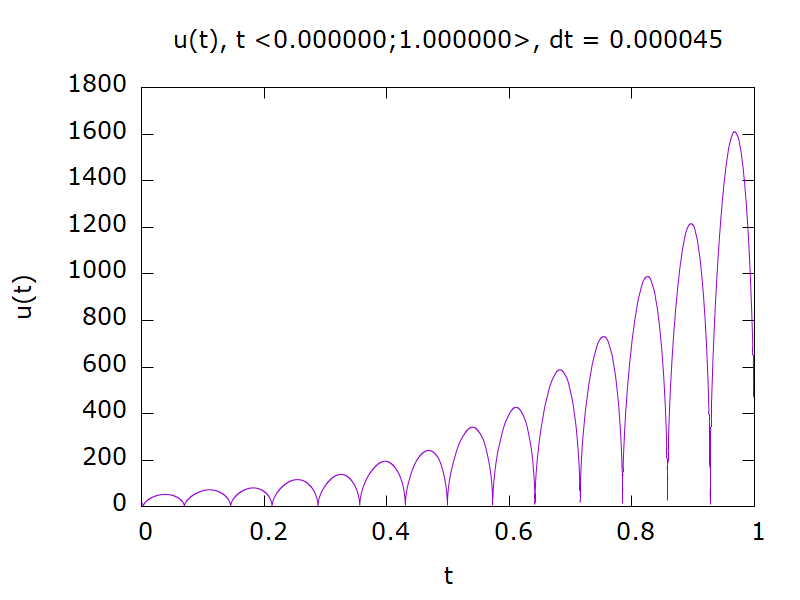
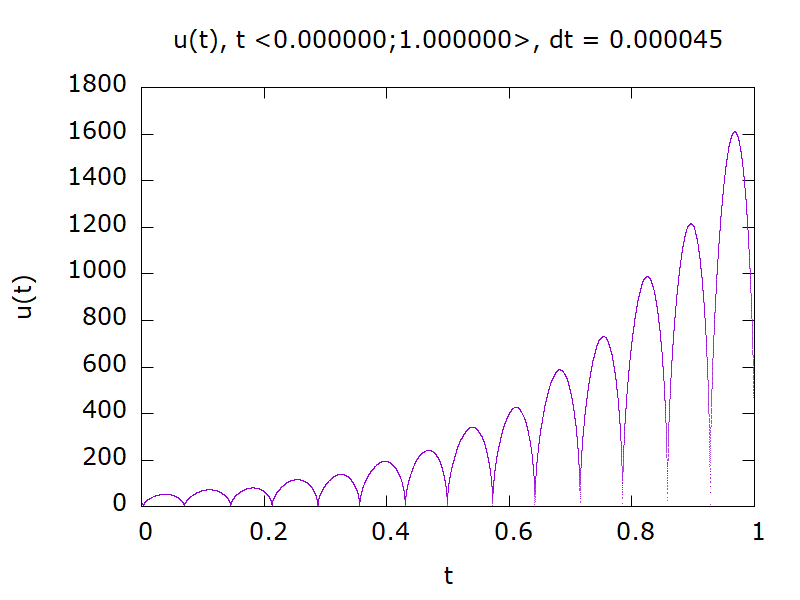
Dodanie funkcji rysujacej wykres 'with dots', poprawki do wykresow

diff --git a/TD_LAB_01/main.cpp b/TD_LAB_01/main.cpp
@@ -81,7 +81,7 @@ void zad1() {
 	string title = "x(t), t <" + to_string(t0) + ";" + to_string(tN) + ">, dt = " + to_string(dt);
 
 	dataToCsv("csv/TD_LAB_01_ZAD1_x.csv", outX);
-	drawChart(title,"t","x(t)","csv/TD_LAB_01_ZAD1_x.csv", "charts/TD_LAB_01_ZAD1_x.png");
+	drawChartWithDots(title,"t","x(t)","csv/TD_LAB_01_ZAD1_x.csv", "charts/TD_LAB_01_ZAD1_x.png");
 }
 
 void zad2() {
@@ -94,7 +94,7 @@ void zad2() {
 	title = "y(t), t <" + to_string(t0) + ";" + to_string(tN) + ">, dt = " + to_string(dt);
 
 	dataToCsv("csv/TD_LAB_01_ZAD2_y.csv", outY);
-	drawChart(title,"t","y(t)","csv/TD_LAB_01_ZAD2_y.csv", "charts/TD_LAB_01_ZAD2_y.png");
+	drawChartWithDots(title,"t","y(t)","csv/TD_LAB_01_ZAD2_y.csv", "charts/TD_LAB_01_ZAD2_y.png");
 	
 	// z(t)
 	tn = t0;
@@ -103,7 +103,7 @@ void zad2() {
 	title = "z(t), t <" + to_string(t0) + ";" + to_string(tN) + ">, dt = " + to_string(dt);
 
 	dataToCsv("csv/TD_LAB_01_ZAD2_z.csv", outZ);
-	drawChart(title,"t","z(t)","csv/TD_LAB_01_ZAD2_z.csv", "charts/TD_LAB_01_ZAD2_z.png");
+	drawChartWithDots(title,"t","z(t)","csv/TD_LAB_01_ZAD2_z.csv", "charts/TD_LAB_01_ZAD2_z.png");
 
 	// u(t)
 	tn = t0;
@@ -112,7 +112,7 @@ void zad2() {
 	title = "u(t), t <" + to_string(t0) + ";" + to_string(tN) + ">, dt = " + to_string(dt);
 
 	dataToCsv("csv/TD_LAB_01_ZAD2_u.csv", outU);
-	drawChart(title,"t","u(t)","csv/TD_LAB_01_ZAD2_u.csv", "charts/TD_LAB_01_ZAD2_u.png");
+	drawChartWithDots(title,"t","u(t)","csv/TD_LAB_01_ZAD2_u.csv", "charts/TD_LAB_01_ZAD2_u.png");
 
 	// v(t)
 	tn = t0;
@@ -121,7 +121,7 @@ void zad2() {
 	title = "v(t), t <" + to_string(t0) + ";" + to_string(tN) + ">, dt = " + to_string(dt);
 
 	dataToCsv("csv/TD_LAB_01_ZAD2_v.csv", outV);
-	drawChart(title,"t","v(t)","csv/TD_LAB_01_ZAD2_v.csv", "charts/TD_LAB_01_ZAD2_v.png");
+	drawChartWithDots(title,"t","v(t)","csv/TD_LAB_01_ZAD2_v.csv", "charts/TD_LAB_01_ZAD2_v.png");
 
 	// p(t)
 	string outP = "";
@@ -134,7 +134,7 @@ void zad2() {
 		title = "p(t), t <" + to_string(t0) + ";" + to_string(tN) + ">, dt = " + to_string(dt) + ", N = " + to_string(arrN[i]);
 
 		dataToCsv("csv/TD_LAB_01_ZAD2_p_" + to_string(arrN[i]) + ".csv", outP);
-		drawChart(title, "t", "p(t)", "csv/TD_LAB_01_ZAD2_p_" + to_string(arrN[i]) + ".csv", "charts/TD_LAB_01_ZAD2_p_" + to_string(arrN[i]) + ".png");
+		drawChartWithDots(title, "t", "p(t)", "csv/TD_LAB_01_ZAD2_p_" + to_string(arrN[i]) + ".csv", "charts/TD_LAB_01_ZAD2_p_" + to_string(arrN[i]) + ".png");
 	}
 }
 

diff --git a/TD_LAB_01/chart_utils.cpp b/TD_LAB_01/chart_utils.cpp
@@ -58,4 +58,20 @@ namespace chart_utils {
 		gplot.cmd("set samples 1000");
 		gplot.cmd("plot \"./" + inputFile + "\" u 1:2 with lines linestyle 1");
 	}
+
+	void drawChartWithDots(string title, string xlabel, string ylabel, string inputFile, string outputFile) {
+		Gnuplot gplot;
+
+		gplot.cmd("set terminal pngcairo size 800, 600 enhanced font 'Verdana,9'");
+		gplot.cmd("set output \"./" + outputFile + "\"");
+		gplot.cmd("set datafile separator \";\"");
+		gplot.cmd("set encoding utf8");
+		gplot.cmd("set title \"" + title + "\"");
+		gplot.cmd("set xlabel \"" + xlabel + "\"");
+		gplot.cmd("set ylabel \"" + ylabel + "\"");
+		//gplot.cmd("set style line 1 linetype 1 linewidth 1");
+		gplot.cmd("unset key");
+		gplot.cmd("set samples 1000");
+		gplot.cmd("plot \"./" + inputFile + "\" u 1:2 with dots");
+	}
 }

diff --git a/TD_LAB_01/chart_utils.h b/TD_LAB_01/chart_utils.h
@@ -10,6 +10,7 @@ namespace chart_utils {
 	string generateData(float, float, float, float, int, float(*fn)(float, int));
 	void dataToCsv(string, string);
 	void drawChart(string, string, string, string, string);
+	void drawChartWithDots(string, string, string, string, string);
 }
 
 #endif
